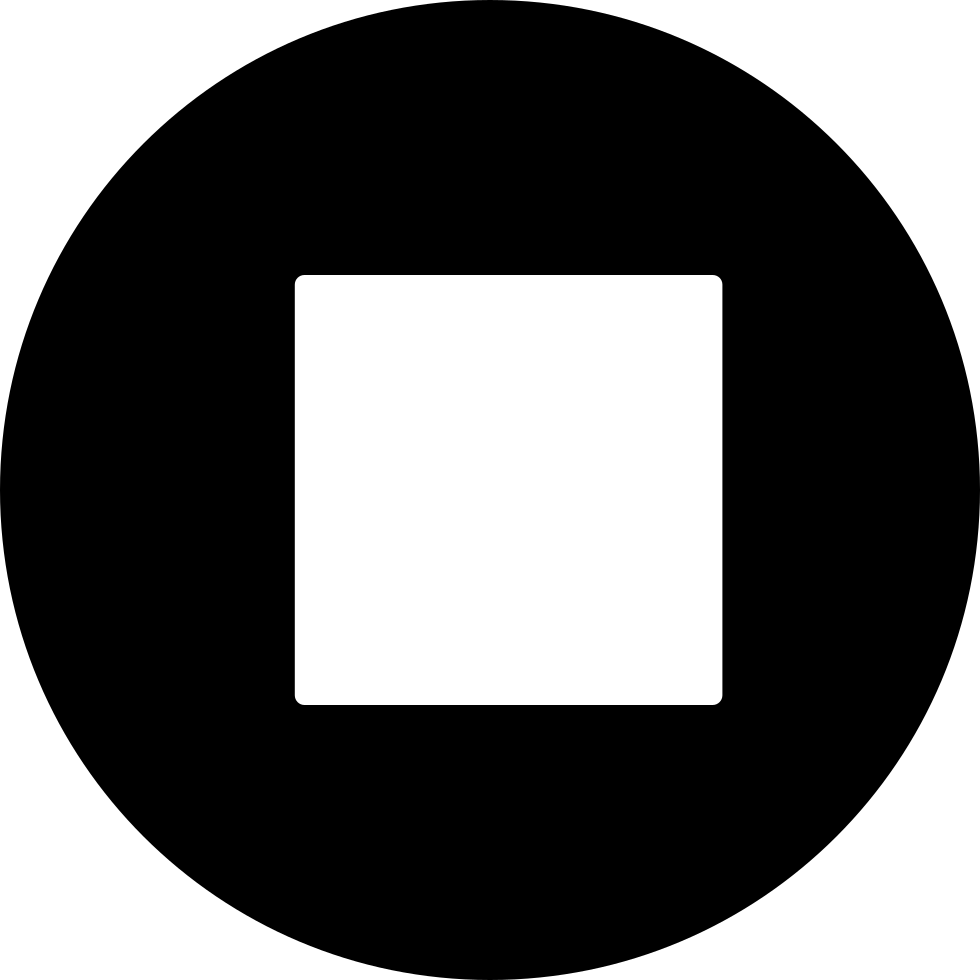
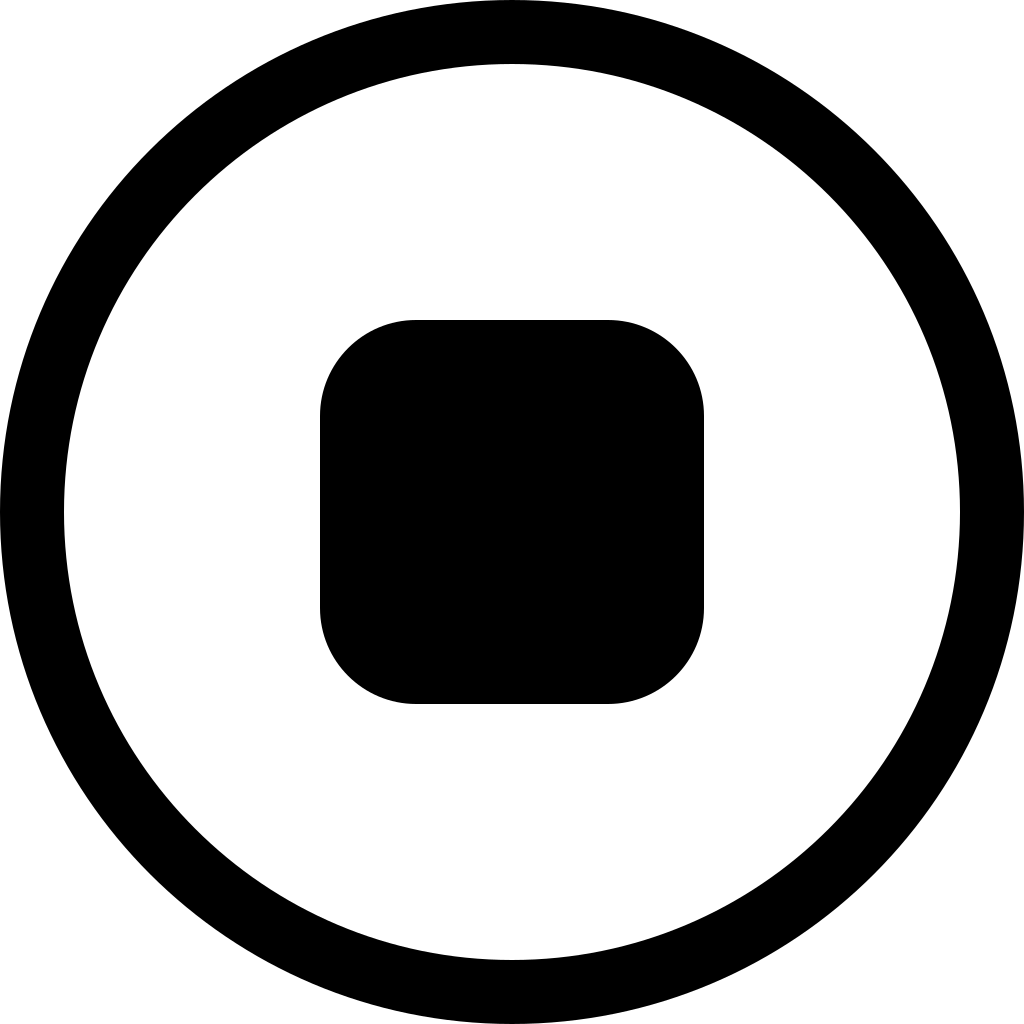
Обновил визуал и добавил новые функции взаимодействия

diff --git a/MainWindow.xaml b/MainWindow.xaml
@@ -18,31 +18,36 @@
         </Menu>
         <TabControl>
             <TabItem Header="Аудиодорожка" Name="Audio">
-                <StackPanel VerticalAlignment="Center">
+                <Grid VerticalAlignment="Center">
+                    <Grid.RowDefinitions>
+                        <RowDefinition></RowDefinition>
+                        <RowDefinition Height="0.5*"></RowDefinition>
+                        <RowDefinition></RowDefinition>
+                    </Grid.RowDefinitions>
                     <MediaElement Stretch="Fill" LoadedBehavior="Manual" UnloadedBehavior="Stop" MediaOpened="Element_MediaOpened" MediaEnded="Element_MediaEnded"
                                   Source="C:\Users\naitm\Desktop\ГЗ\Обрезка аудио\Image\Tokijjskijj_gul_-_Opening_original_1_sezon_60672129.mp3"
                                   Name="MediaAudio"/>
-                    <Image Source="/Image/waveform.png" HorizontalAlignment="Center"/>
-                    <StackPanel Orientation="Horizontal" HorizontalAlignment="Center">
-                        <!-- Play button. -->
-                        <Image Source="/Image/PlayButton.png" MouseDown="OnMouseDownPlayMedia" Width="50" Margin="5" />
-                        <!-- Pause button. -->
-                        <Image Source="/Image/PauseButton.png" MouseDown="OnMouseDownPauseMedia" Width="50" Margin="5" />
-                        <!-- Stop button. -->
-                        <Image Source="/Image/StopButton.png" MouseDown="OnMouseDownStopMedia" Width="50" Margin="5" />
-                    </StackPanel>
-                    <StackPanel Orientation="Horizontal" HorizontalAlignment="Center">
+                    <Image Source="/Image/waveform.png" HorizontalAlignment="Center" Grid.Row="0" Stretch="Fill"/>
+                    <Grid HorizontalAlignment="Center" Grid.Row="1">
+                        <Grid.ColumnDefinitions>
+                            <ColumnDefinition></ColumnDefinition>
+                            <ColumnDefinition></ColumnDefinition>
+                        </Grid.ColumnDefinitions>
+                        <Button Name="PlayPauseButton" Template="{StaticResource RoundButton}" Background="LimeGreen" Margin="5" Grid.Column="0" MaxWidth="100"
+                                Click="PlayPauseButton_Click" MouseEnter="PlayPauseButton_MouseEnter" MouseLeave="PlayPauseButton_MouseLeave">
+                            <Image Source="/Image/pause_play.png"/>
+                        </Button>
+                        <Button  Name="StopButton" Template="{StaticResource RoundButton}" Background="Crimson" Margin="5" Grid.Column="1" MaxWidth="100"
+                                 Click="StopButton_Click" MouseEnter="StopButton_MouseEnter" MouseLeave="StopButton_MouseLeave">
+                            <Image Source="/Image/StopButton.png"/>
+                        </Button>
+                    </Grid>
+                    <StackPanel Orientation="Horizontal" HorizontalAlignment="Center" Grid.Row="2">
                         <!-- Volume slider. This slider allows a Volume range between 0 and 1. -->
                         <StackPanel Orientation="Horizontal">
                             <TextBlock VerticalAlignment="Center" Margin="5">Громкость</TextBlock>
                             <Slider Name="volumeSlider" VerticalAlignment="Center" ValueChanged="ChangeMediaVolume" 
                             Minimum="0" Maximum="1" Value="0.5" Width="70"/>
-                        </StackPanel>
-                        <!-- Volume slider. This slider allows you to change the speed of the media playback. -->
-                        <StackPanel Orientation="Horizontal">
-                            <TextBlock Margin="5"  VerticalAlignment="Center">Скорость воспроизведения</TextBlock>
-                            <Slider Name="speedRatioSlider" VerticalAlignment="Center" ValueChanged="ChangeMediaSpeedRatio" 
-                                Value="1" Width="70" />
                         </StackPanel>
                         <!-- Seek to slider. Ths slider allows you to jump to different parts of the media playback. -->
                         <StackPanel Orientation="Horizontal">
@@ -50,7 +55,7 @@
                             <Slider Name="timelineSlider" Margin="5" ValueChanged="SeekToMediaPosition" Width="70"/>
                         </StackPanel>
                     </StackPanel>
-                </StackPanel>
+                </Grid>
             </TabItem>
             <TabItem Header="Спектрограмма" Name="Spectr">
                 

diff --git a/Dictionary1.xaml b/Dictionary1.xaml
@@ -1,0 +1,8 @@
+<ResourceDictionary xmlns="http://schemas.microsoft.com/winfx/2006/xaml/presentation"
+                    xmlns:x="http://schemas.microsoft.com/winfx/2006/xaml">
+    <ControlTemplate x:Key="RoundButton" TargetType="Button">
+        <Border CornerRadius="50" Background="{TemplateBinding Background}" BorderBrush="{TemplateBinding BorderBrush}" BorderThickness="{TemplateBinding BorderThickness}">
+            <ContentPresenter HorizontalAlignment="{TemplateBinding HorizontalContentAlignment}" VerticalAlignment="{TemplateBinding VerticalContentAlignment}"/>
+        </Border>
+    </ControlTemplate>
+</ResourceDictionary>

diff --git a/App.xaml b/App.xaml
@@ -4,6 +4,10 @@
              xmlns:local="clr-namespace:Обрезка_аудио"
              StartupUri="MainWindow.xaml">
     <Application.Resources>
-         
+        <ResourceDictionary>
+            <ResourceDictionary.MergedDictionaries>
+                <ResourceDictionary Source="Dictionary1.xaml" />
+            </ResourceDictionary.MergedDictionaries>
+        </ResourceDictionary>
     </Application.Resources>
 </Application>

diff --git a/MainWindow.xaml.cs b/MainWindow.xaml.cs
@@ -16,40 +16,11 @@ namespace Обрезка_аудио
     /// </summary>
     public partial class MainWindow : Window
     {
+        bool isPlay = false;
+
         public MainWindow()
         {
             InitializeComponent();
-        }
-
-        // Play the media.
-        void OnMouseDownPlayMedia(object sender, MouseButtonEventArgs args)
-        {
-
-            // The Play method will begin the media if it is not currently active or
-            // resume media if it is paused. This has no effect if the media is
-            // already running.
-            MediaAudio.Play();
-
-            // Initialize the MediaElement property values.
-            InitializePropertyValues();
-        }
-
-        // Pause the media.
-        void OnMouseDownPauseMedia(object sender, MouseButtonEventArgs args)
-        {
-
-            // The Pause method pauses the media if it is currently running.
-            // The Play method can be used to resume.
-            MediaAudio.Pause();
-        }
-
-        // Stop the media.
-        void OnMouseDownStopMedia(object sender, MouseButtonEventArgs args)
-        {
-
-            // The Stop method stops and resets the media to be played from
-            // the beginning.
-            MediaAudio.Stop();
         }
 
         // Change the volume of the media.
@@ -58,19 +29,12 @@ namespace Обрезка_аудио
             MediaAudio.Volume = (double)volumeSlider.Value;
         }
 
-        // Change the speed of the media.
-        private void ChangeMediaSpeedRatio(object sender, RoutedPropertyChangedEventArgs<double> args)
-        {
-            MediaAudio.SpeedRatio = (double)speedRatioSlider.Value;
-        }
-
         // When the media opens, initialize the "Seek To" slider maximum value
         // to the total number of miliseconds in the length of the media clip.
         private void Element_MediaOpened(object sender, EventArgs e)
         {
             if (MediaAudio.NaturalDuration.HasTimeSpan)
                 timelineSlider.Maximum = MediaAudio.NaturalDuration.TimeSpan.TotalMilliseconds;
-            Console.WriteLine(MediaAudio.NaturalDuration.HasTimeSpan);
         }
 
         // When the media playback is finished. Stop() the media to seek to media start.
@@ -95,7 +59,51 @@ namespace Обрезка_аудио
             // Set the media's starting Volume and SpeedRatio to the current value of the
             // their respective slider controls.
             MediaAudio.Volume = (double)volumeSlider.Value;
-            MediaAudio.SpeedRatio = (double)speedRatioSlider.Value;
+        }
+
+        private void PlayPauseButton_MouseEnter(object sender, MouseEventArgs e)
+        {
+            PlayPauseButton.Background = Brushes.LawnGreen;
+        }
+
+        private void PlayPauseButton_MouseLeave(object sender, MouseEventArgs e)
+        {
+            PlayPauseButton.Background = Brushes.LimeGreen;
+        }
+
+        private void PlayPauseButton_Click(object sender, RoutedEventArgs e)
+        {
+            if (!isPlay)
+            {
+                // Play the media
+                MediaAudio.Play();
+                isPlay = true;
+            }
+            else
+            {
+                // Pause the media.
+                MediaAudio.Pause();
+                isPlay= false;
+            }
+            // Initialize the MediaElement property values.
+            InitializePropertyValues();
+        }
+
+        private void StopButton_MouseEnter(object sender, MouseEventArgs e)
+        {
+            StopButton.Background = Brushes.Red;
+        }
+
+        private void StopButton_MouseLeave(object sender, MouseEventArgs e)
+        {
+            StopButton.Background = Brushes.Crimson;
+        }
+
+        // Stop the media
+        private void StopButton_Click(object sender, RoutedEventArgs e)
+        {
+            MediaAudio.Stop();
+            isPlay = false;
         }
     }
 }
